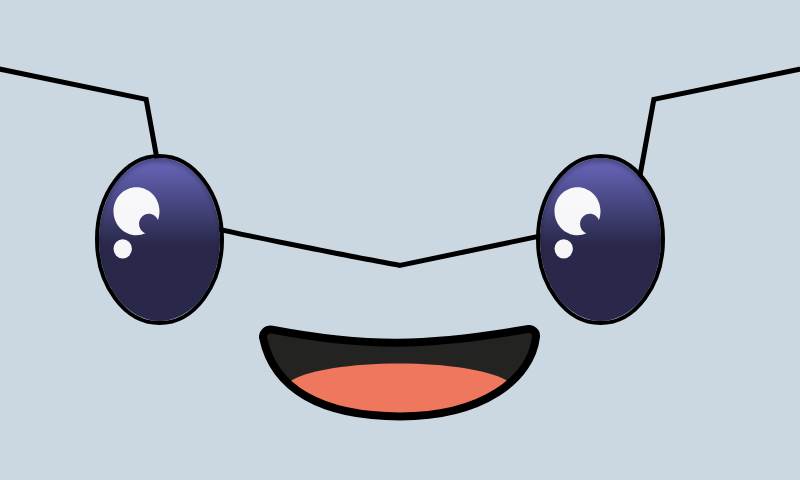
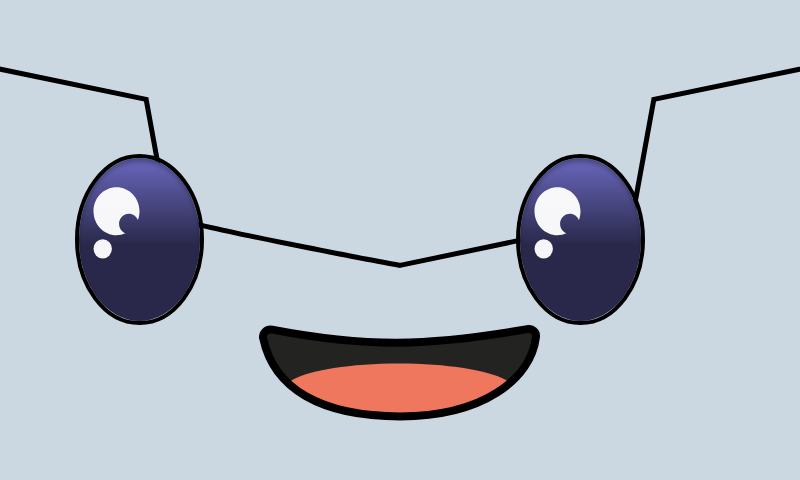
fix: fixing sensivity for gaze, and fix x invert

Changed region(s): [[0.625, 0.3125, 0.8438, 0.6875], [0.0938, 0.3125, 0.2812, 0.6875]]

diff --git a/tests/fe/gaze.test.js b/tests/fe/gaze.test.js
@@ -19,6 +19,7 @@ test('CV gaze accepts only two fields and preserves every finite coordinate', ()
 });
 
 function setupRenderer(config = {}) {
+  config = { ...config, gaze: { sensitivity: 1, invertX: false, ...config.gaze } };
   globalThis.window = { addEventListener() {} };
   const elements = new Map();
   const svg = { querySelector(selector) {
@@ -71,23 +72,65 @@ test('GUI clamps extreme gaze and does not restart movement for the same effecti
   state.setGaze(8);
   renderer.updateGaze(0);
   renderer.updateGaze(75);
-  assert.equal(state.gazeX, 1);
-  assert.equal(offset(), 15);
+  assert.equal(state.gazeX, 2);
+  assert.equal(offset(), 30);
   state.setGaze(Number.MAX_VALUE);
   renderer.updateGaze(150);
-  assert.equal(offset(), 20);
+  assert.equal(offset(), 40);
   state.setGaze(-5);
   renderer.updateGaze(150);
   renderer.updateGaze(225);
-  assert.equal(offset(), -10);
+  assert.equal(offset(), -20);
   state.setGaze(-Number.MAX_VALUE);
   renderer.updateGaze(300);
-  assert.equal(state.gazeX, -1);
-  assert.equal(offset(), -20);
+  assert.equal(state.gazeX, -2);
+  assert.equal(offset(), -40);
   state.setGaze(0.5);
   renderer.updateGaze(300);
   renderer.updateGaze(450);
   assert.equal(offset(), 10);
+});
+
+test('small CV coordinates are amplified before clamping to [-2, 2]', () => {
+  const { state, renderer, offset } = setupRenderer({ gaze: { sensitivity: 4, durationMs: 0 } });
+  for (const [input, target, displacement] of [
+    [0.2, 0.8, 16], [0.4, 1.6, 32], [-0.2, -0.8, -16], [-0.4, -1.6, -32],
+    [0.5, 2, 40], [-0.5, -2, -40], [Number.MAX_VALUE, 2, 40], [-Number.MAX_VALUE, -2, -40],
+    [0, 0, 0],
+  ]) {
+    state.setGaze(input);
+    renderer.updateGaze(0);
+    assert.equal(state.gazeX, target);
+    assert.equal(offset(), displacement);
+  }
+  state.config.gaze.sensitivity = 2;
+  state.setGaze(0.2);
+  assert.equal(state.gazeX, 0.4);
+  state.config.gaze.sensitivity = 6;
+  state.setGaze(0.2);
+  assert.ok(Math.abs(state.gazeX - 1.2) < 1e-12);
+  for (const sensitivity of [undefined, 0, -1, NaN, Infinity, '4']) {
+    const fallback = new FaceState({ gaze: { sensitivity } });
+    fallback.setGaze(0.2);
+    assert.equal(fallback.gazeX, -0.8);
+  }
+});
+
+test('camera mirroring flips both gaze directions once and can be disabled', () => {
+  const { state, renderer, offset } = setupRenderer({ gaze: { invertX: true, sensitivity: 4, durationMs: 0 } });
+  for (const [input, displacement] of [[0.2, -16], [-0.2, 16], [0.4, -32], [-0.4, 32],
+    [8, -40], [-5, 40], [0, 0]]) {
+    state.setGaze(input);
+    renderer.updateGaze(0);
+    assert.equal(offset(), displacement);
+  }
+  state.config.gaze.invertX = false;
+  state.setGaze(0.2);
+  renderer.updateGaze(0);
+  assert.equal(offset(), 16);
+  const defaults = new FaceState();
+  defaults.setGaze(0.2);
+  assert.equal(defaults.gazeX, -0.8);
 });
 
 test('gaze preserves eye coordinates and blink transforms; cry/timeout store the latest target', () => {

diff --git a/src/js/state.js b/src/js/state.js
@@ -53,7 +53,10 @@ export class FaceState {
 
   setGaze(x) {
     if (!Number.isFinite(x)) return;
-    const target = Math.max(-1, Math.min(1, x));
+    const configured = this.config.gaze?.sensitivity;
+    const sensitivity = Number.isFinite(configured) && configured > 0 ? configured : 4;
+    const direction = this.config.gaze?.invertX === false ? 1 : -1;
+    const target = Math.max(-2, Math.min(2, x * sensitivity * direction));
     if (this.gazeX === target) return;
     this.gazeX = target;
     this.notifyChange();

diff --git a/docs/rancangan-gaze-horizontal.md b/docs/rancangan-gaze-horizontal.md
@@ -1,7 +1,7 @@
 # Implementasi gaze horizontal
 
 Status: implementasi tersedia. Jalur terminal HTTP/SSE ke browser sudah diuji; build/test Rust dan MQTT/Tauri langsung belum dijalankan karena toolchain belum tersedia.
-Tanggal: 20 November 2026.
+Tanggal: 20 November 2026. Pembaruan sensitivitas: 24 November 2026.
 
 Dokumen ini mencatat implementasi dari rancangan gaze horizontal. Kontrak aktif ada di [CONTRACT.md](CONTRACT.md). Permintaan implementasi diberikan setelah rancangan awal dan perapihan backend selesai.
 
@@ -19,17 +19,19 @@ Topik MQTT: `robot/gaze`. Kirim tanpa retain.
 {"type":"gaze","x":0.5}
 ```
 
-| Nilai x | Hasil |
-|---|---|
-| `-1` | Batas kiri layar |
-| `-0.5` | Setengah jalan ke kiri |
-| `0` | Posisi dasar ekspresi aktif |
-| `0.5` | Setengah jalan ke kanan |
-| `1` | Batas kanan layar |
+| Input x (sensitivitas 4, invertX true) | Target GUI | Geseran SVG |
+|---|---|---|
+| `-0.5` atau lebih negatif | `2` | `40` |
+| `-0.4` | `1.6` | `32` |
+| `-0.2` | `0.8` | `16` |
+| `0` | `0` | `0` |
+| `0.2` | `-0.8` | `-16` |
+| `0.4` | `-1.6` | `-32` |
+| `0.5` atau lebih positif | `-2` | `-40` |
 
-Arah mengikuti layar yang dilihat orang di depan robot. Modul CV bertanggung jawab memetakan koordinat kamera, termasuk pencerminan. `x` adalah target absolut yang dinormalisasi; mengirim `0.5` berulang tidak menambah geseran.
+Arah mengikuti layar yang dilihat orang di depan robot. GUI mengoreksi pencerminan kamera dengan `gaze.invertX: true` (default). Input positif menggeser mata ke kiri layar, input negatif ke kanan layar. Gunakan `invertX: false` jika CV sudah mengoreksi arahnya; jangan membalik di kedua sisi sekaligus. `x` adalah input absolut; mengirim nilai yang sama berulang tidak menambah geseran.
 
-Payload wajib objek JSON dengan tepat dua field: `type` bernilai string `gaze`, dan `x` berupa angka finite berapa pun. Backend dan bridge meneruskan nilai asli; GUI membatasi target dengan `clamp(x, -1, 1)`. Nilai di bawah `-1` menjadi `-1`, di atas `1` menjadi `1`, dan nilai di dalam rentang tetap. String angka, boolean, null, field hilang, field tambahan, nilai non-finite, dan JSON rusak ditolak. Target terakhir tidak berubah saat pesan invalid.
+Payload wajib objek JSON dengan tepat dua field: `type` bernilai string `gaze`, dan `x` berupa angka finite berapa pun. Backend dan bridge meneruskan nilai asli; GUI memakai `clamp(x * sensitivity * direction, -2, 2)`. String angka, boolean, null, field hilang, field tambahan, nilai non-finite, dan JSON rusak ditolak. Target terakhir tidak berubah saat pesan invalid.
 
 ## 3. Alur implementasi
 
@@ -55,20 +57,24 @@ Konfigurasi di `src/config/config.json`:
 
 ```json
 "gaze": {
+  "invertX": true,
+  "sensitivity": 4,
   "maxOffsetX": 20,
   "durationMs": 150
 }
 ```
 
-Angka tersebut adalah nilai awal kalibrasi. `maxOffsetX` menggunakan satuan SVG pada viewBox dasar `800 x 480`, bukan piksel fisik layar. `durationMs` mengatur durasi lokal dengan easing ease-out kuadratik; tidak perlu menambah durasi dalam payload CV.
+Angka tersebut adalah nilai awal kalibrasi. `sensitivity` mengalikan input CV sebelum dibatasi ke [-2, 2]; nilainya wajib angka finite positif, nilai hilang/invalid memakai 4. Naikkan ke 6 jika masih kurang terasa atau turunkan ke 2 jika terlalu peka. `maxOffsetX` adalah jarak per satu unit target (nama config lama dipertahankan), menggunakan satuan SVG pada viewBox dasar `800 x 480`, bukan piksel fisik layar. `durationMs` mengatur durasi lokal dengan easing ease-out kuadratik; tidak perlu menambah durasi dalam payload CV.
 
 ```text
+direction = invertX ? -1 : 1
+targetGaze = clamp(xCV * sensitivity * direction, -2, 2)
 offsetX = gazeTerlihat * maxOffsetX
 xKiriTampil = xKiriDasarEkspresi + offsetX
 xKananTampil = xKananDasarEkspresi + offsetX
 ```
 
-Misalnya, target `0.5` menghasilkan offset akhir `10` satuan SVG dengan config awal. Jarak antar mata tetap. Resize mengikuti penskalaan SVG.
+Dengan config awal, input CV `0.2` menghasilkan target `-0.8` dan offset akhir `-16` satuan SVG; input `0.4` menghasilkan target `-1.6` dan offset `-32`. Batas maksimum geseran menjadi -40 sampai 40 satuan SVG. Jarak antar mata tetap. Resize mengikuti penskalaan SVG.
 
 Renderer memakai loop requestAnimationFrame yang sudah ada. Target baru menggantikan target lama dari posisi gerakan saat ini; tidak ada antrean. Target yang sama tidak memulai ulang gerak. Config `durationMs: 0` membuat gerakan langsung. Nilai config hilang/invalid memakai fallback 20 satuan dan 150 ms.
 
@@ -92,7 +98,7 @@ Transform gaze berada pada parent `#layer-eyes`; transform kedip/transisi tetap 
 | `src-tauri/src/connector/protocol.rs` | Varian Gaze, validasi X, nama event |
 | `src-tauri/src/connector/mqtt.rs` | Mengabaikan retained gaze |
 | `src/js/gaze.js` | Adapter JSON CV untuk bridge development |
-| `src/js/state.js` | Membatasi target X ke [-1, 1] dan reset gaze |
+| `src/js/state.js` | Mengalikan sensitivitas dan membatasi target X ke [-2, 2] dan reset gaze |
 | `src/js/connector.js` | Penerimaan event gaze tanpa lifecycle mulut |
 | `src/js/renderer.js` | Gerakan horizontal parent kedua mata |
 | `src/js/mode.js` | Reset gaze saat pergantian mode |
@@ -135,7 +141,7 @@ Contoh PowerShell untuk JSON mentah:
 Invoke-RestMethod -Method Post -Uri http://localhost:3000/api/message -ContentType application/json -Body '{"type":"gaze","x":-0.5}'
 ```
 
-Tes pembatasan: `node scripts/send.js gaze -5` bergerak ke batas kiri dan `node scripts/send.js gaze 8` ke batas kanan. Nilai `0.5` tetap setengah jalan ke kanan. Ini pembatasan, bukan pemetaan otomatis koordinat piksel kamera ke seluruh rentang gaze. Payload HTTP `{"type":"gaze","x":"0.5"}` atau field tambahan `y` harus menghasilkan HTTP 400.
+Tes pembatasan: `node scripts/send.js gaze -5` bergerak ke batas kanan dan `node scripts/send.js gaze 8` ke batas kiri. Dengan sensitivitas 4, nilai `0.5` sudah mencapai batas kiri; gunakan `0.2`/`0.4` untuk memeriksa penguatan nilai CV kecil. Ini pembatasan, bukan pemetaan otomatis koordinat piksel kamera ke seluruh rentang gaze. Payload HTTP `{"type":"gaze","x":"0.5"}` atau field tambahan `y` harus menghasilkan HTTP 400.
 
 Untuk desktop Tauri atau browser dengan Mosquitto bridge tersedia, gunakan MQTT. Contoh PowerShell, tanpa flag retain:
 
@@ -159,6 +165,10 @@ cargo test --manifest-path src-tauri/Cargo.toml --lib
 
 Tes frontend memeriksa validasi, interpolasi, retarget tanpa lompatan, penahanan ekspresi khusus, reset statis, dan perbandingan timing emosi/viseme dengan serta tanpa gaze pada mode bawaan, streaming, dan fallback. Tes Rust untuk format CV dan angka finite sudah ditambahkan; tes frontend memeriksa pembatasan target termasuk angka ekstrem dan target efektif berulang.
 
-Sebanyak 60 tes frontend lulus. Uji browser melalui CLI/HTTP/SSE juga lulus, termasuk pembatasan input -5, 8, serta angka finite ekstrem ke batas GUI, gerak mata, kedip otomatis yang teramati, pergantian ekspresi, static reset, dan streaming kalimat bersamaan. Screenshot tiga posisi sudah diperiksa pada 800 x 480. Penskalaan pada 400 x 240 dan 1600 x 960 sudah diverifikasi dan dicatat pada `verification.json`. Retarget saat animasi dibuktikan dalam tes frontend deterministik.
+Sebanyak 66 tes frontend lulus. Uji browser melalui CLI/HTTP/SSE juga lulus, termasuk pembatasan input -5, 8, serta angka finite ekstrem ke batas GUI, gerak mata, kedip otomatis yang teramati, pergantian ekspresi, static reset, dan streaming kalimat bersamaan. Screenshot tiga posisi sudah diperiksa pada 800 x 480. Penskalaan pada 400 x 240 dan 1600 x 960 sudah diverifikasi dan dicatat pada `verification.json`. Retarget saat animasi dibuktikan dalam tes frontend deterministik.
 
 Build/test Rust, MQTT dengan broker nyata, pengabaian retained gaze saat reconnect, serta visual Tauri/WebKitGTK belum terverifikasi pada lingkungan ini karena Cargo/Mosquitto CLI belum tersedia. Uji browser tidak menggantikan pemeriksaan tersebut.
+
+Kalibrasi sensitivitas 24 November 2026: input CV sekitar 0.2 sampai 0.4 diperkuat 4 kali; rentang target diperlebar dari [-1, 1] menjadi [-2, 2]. Perubahan ini hanya pada pemetaan frontend, tanpa perubahan JSON atau adapter LLM/TTS. Reload browser atau restart aplikasi setelah mengubah config.
+
+Koreksi mirroring: `invertX` aktif secara default di GUI, termasuk jika field config tidak tersedia. Set `false` untuk menonaktifkan pembalikan tanpa mengubah program CV atau format JSON. Sensitivitas, batas target, dan lifecycle gaze tetap sama.

diff --git a/docs/CONTRACT.md b/docs/CONTRACT.md
@@ -16,11 +16,11 @@ CV publish ke `robot/gaze` tanpa retain:
 {"type":"gaze","x":0.5}
 ```
 
-Payload wajib objek dengan tepat dua field: `type` harus string `gaze`, dan `x` menerima angka finite berapa pun. Backend meneruskan nilai asli; GUI membatasi target dengan `clamp(x, -1, 1)`. Misalnya `-5` menjadi target `-1`, `8` menjadi `1`, dan `0.5` tetap `0.5`. Field tambahan, nilai non-finite, string angka, boolean, null, field hilang, dan JSON rusak ditolak. Pesan gaze dengan retained flag diabaikan saat berlangganan ulang; aturan retained pesan LLM/TTS tetap seperti sebelumnya.
+Payload wajib objek dengan tepat dua field: `type` harus string `gaze`, dan `x` menerima angka finite berapa pun. Backend meneruskan nilai asli; GUI membatasi target dengan `clamp(x * sensitivity * direction, -2, 2)`. Sensitivitas awal `4`: dengan `invertX: true` (direction = -1), input `0.2` menjadi target `-0.8`, `0.4` menjadi `-1.6`, `-5` menjadi `2`, dan `8` menjadi `-2`. Pembalikan ini mengoreksi arah kamera CV yang terpantul; set `invertX: false` untuk arah biasa. Field tambahan, nilai non-finite, string angka, boolean, null, field hilang, dan JSON rusak ditolak. Pesan gaze dengan retained flag diabaikan saat berlangganan ulang; aturan retained pesan LLM/TTS tetap seperti sebelumnya.
 
-Adapter menerjemahkannya menjadi event Tauri `brone://gaze` dengan payload internal `{"tipe":"gaze","x":0.5}`. `x` adalah target absolut: `-1` kiri layar, `0` posisi dasar ekspresi, `1` kanan layar, dari sudut pandang orang yang melihat layar. Kedua gambar mata bergeser bersama; posisi Y dan jarak antar mata tetap. Pengirim kamera memetakan arah kamera ke arah layar.
+Adapter menerjemahkannya menjadi event Tauri `brone://gaze` dengan payload internal `{"tipe":"gaze","x":0.5}`. `x` adalah input absolut sebelum sensitivitas. Target GUI dibatasi ke `[-2, 2]`: `-2` kiri penuh, `0` posisi dasar ekspresi, `2` kanan penuh, dari sudut pandang orang yang melihat layar. Kedua gambar mata bergeser bersama; posisi Y dan jarak antar mata tetap. Pembalikan arah kamera dilakukan sekali di GUI melalui `invertX`; pengirim tidak perlu membalik nilai lagi untuk setup CV saat ini.
 
-GUI memakai `gaze.maxOffsetX: 20` satuan SVG pada viewBox dasar 800 x 480 dan `gaze.durationMs: 150` ms dengan easing ease-out kuadratik. Ini nilai awal kalibrasi, dapat diubah melalui config. Pesan terbaru mengganti target dari posisi gerakan saat ini; pesan dengan target sama tidak memulai ulang gerak. Target bertahan sampai pesan baru, termasuk setelah selesai bicara atau perubahan ekspresi. Reset eksplisit dengan `x:0`.
+GUI memakai `gaze.invertX: true`, `gaze.sensitivity: 4` dan `gaze.maxOffsetX: 20` satuan SVG per unit target (maksimum geseran 40 satuan pada target -2 atau 2) pada viewBox dasar 800 x 480 dan `gaze.durationMs: 150` ms dengan easing ease-out kuadratik. Ini nilai awal kalibrasi, dapat diubah melalui config. Pesan terbaru mengganti target dari posisi gerakan saat ini; pesan dengan target sama tidak memulai ulang gerak. Target bertahan sampai pesan baru, termasuk setelah selesai bicara atau perubahan ekspresi. Reset eksplisit dengan `x:0`.
 
 Gaze diproses terpisah dari timer emosi, antrean kalimat, serta viseme pada semua mode mulut. Selama ekspresi `cry`/`timeout` dan transisi yang melibatkannya, offset tampilan ditahan di tengah tanpa membuang target; target diterapkan kembali setelah keluar. Pergantian mode statis/dinamis mereset gaze langsung ke tengah. Pesan selama mode statis dibuang tanpa antrean.
 
